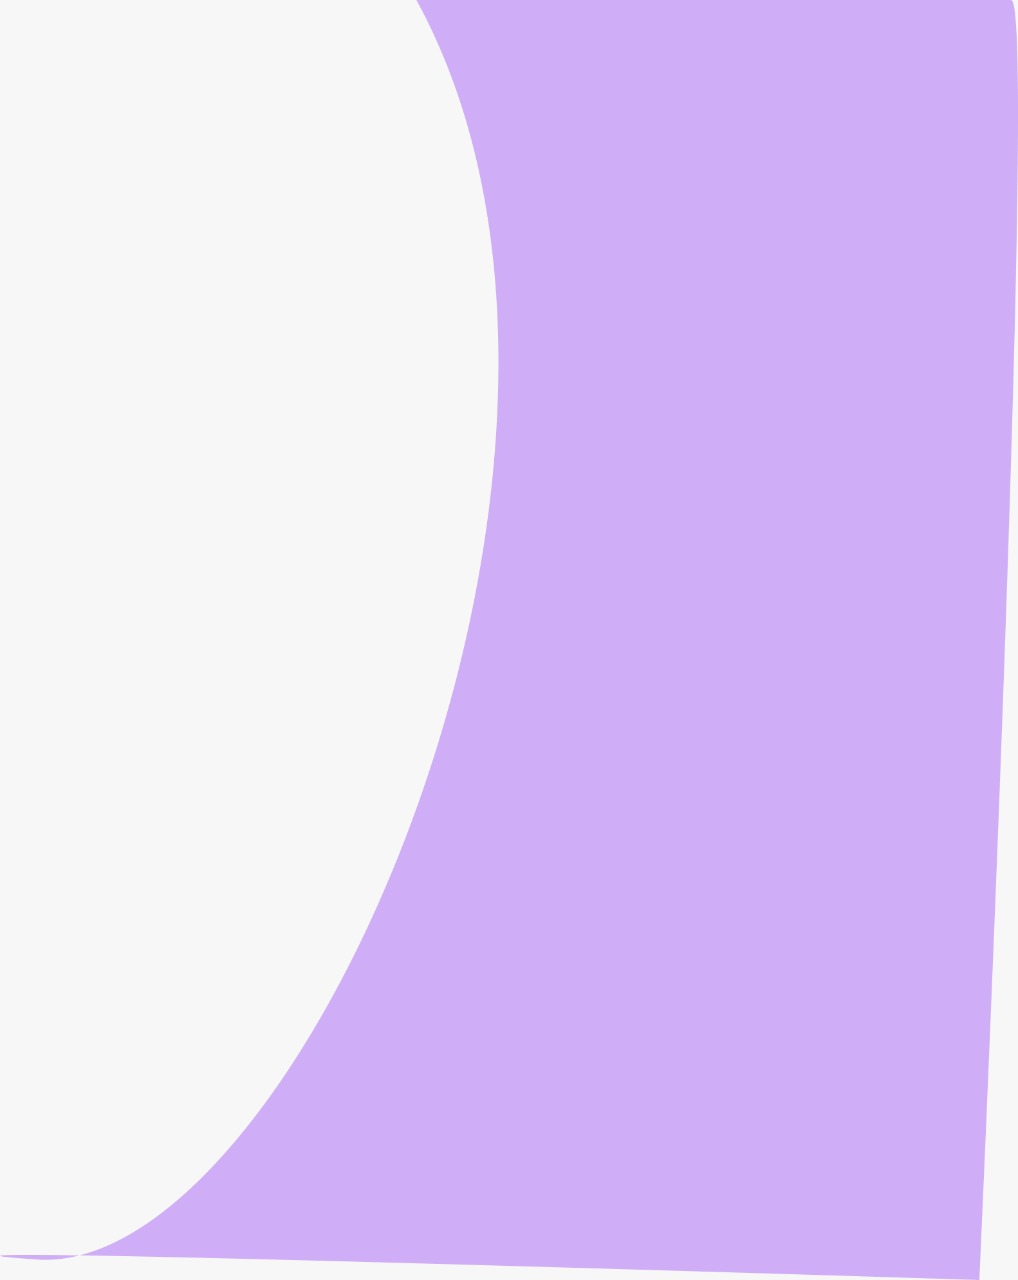
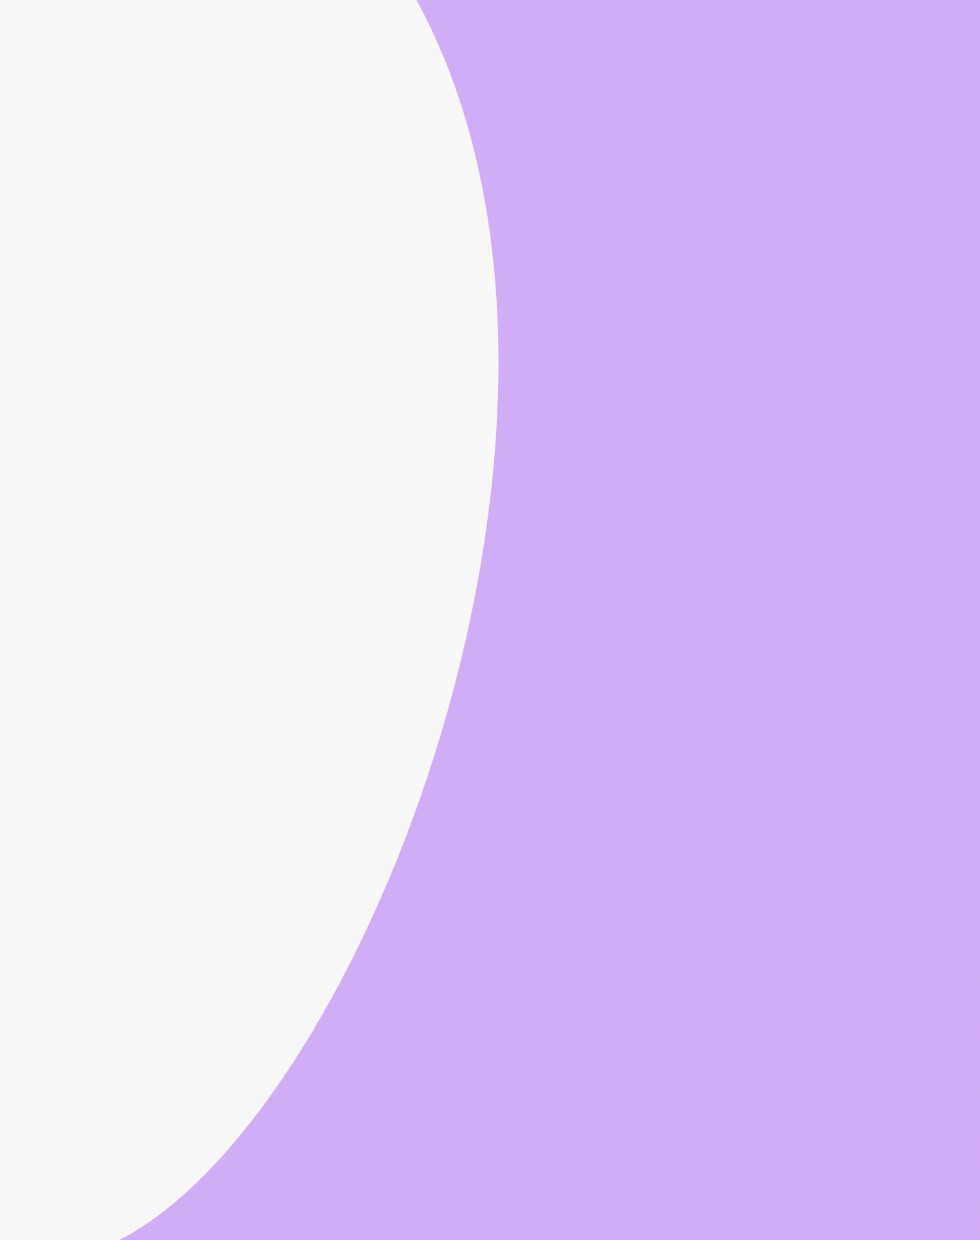
boton de mostrar contraseña y background en mobile

diff --git a/js/main.js b/js/main.js
@@ -94,6 +94,17 @@ const printModal = (content) => {
       }
     })
 }
+const mostrarContrasena = () => {
+  let tipo = document.getElementById("password");
+  let mostrarContrasenaBtn = document.getElementById("showPassword--btn");
+  if(tipo.type == "password"){
+      tipo.type = "text";
+      mostrarContrasenaBtn.value = "Ocultar contraseña🔒";
+    }else{
+      tipo.type = "password";
+      mostrarContrasenaBtn.value = "Mostrar contraseña🔓";
+  }
+}
 
 // printModal (`<h1>hola mundo</h1>`);
 
@@ -116,23 +127,21 @@ document.getElementById('iniciarSesion--btn').addEventListener('click', () => {
         <form action="iniciarSesion">
           <label for="correo">
             <p>Correo</p>
-            <input type="text" name="correo" id="correo" placeholder="Digita tu correo">
+            <input type="email" name="correo" id="correo" placeholder="Digita tu correo" required>
           </label>
           <label for="password">
-            <p>Contraseña</p>
-            <input type="password" name="password" id="password" placeholder="Digita tu contraseña">
+            <p>
+              Contraseña
+              <input type="button" id="showPassword--btn" value="Mostrar contraseña🔓" onclick="mostrarContrasena()">
+            </p>
+            <input type="password" name="password" id="password" placeholder="Digita tu contraseña" required>
           </label>
           <label type="submit" for="iniciarSesion">
             <button>Iniciar sesión</button>
           </label>
-          <!-- <i>Ya sé que estoy feo, pero es mi versión 0.0.1</i> -->
+          <i>Ya sé que me falta algo, pero es mi versión 0.0.1</i>
         </form>
       </div>
     </div>
     `);
   })
-  //   requisitos y valor de una patente comercial de textiles
-  
-// 27584444 ext120
-
-// dinna clark

diff --git a/styles/mobile.css b/styles/mobile.css
@@ -43,7 +43,12 @@
 .rigth-menu.is-active {
   left: 25%;
 }
-
+/* background */
+.aside-container {
+  background-image: url("../assets/imgs/bgTablet.jpg");
+  background-repeat: no-repeat;
+  height: 100%;
+}
 .aside-container.is-active:first-child {
     padding-top: 290px;
     transition: all 1s;

diff --git a/styles/style.css b/styles/style.css
@@ -345,7 +345,7 @@ aside {
 
 /* MODAL INICIAR SESION */
 .iniciarSesion__information--container{
-  border-radius: 10px;
+  border-radius: 15px;
   background: var(--ligth-color);
   transition: 1s;
   margin: 19px;
